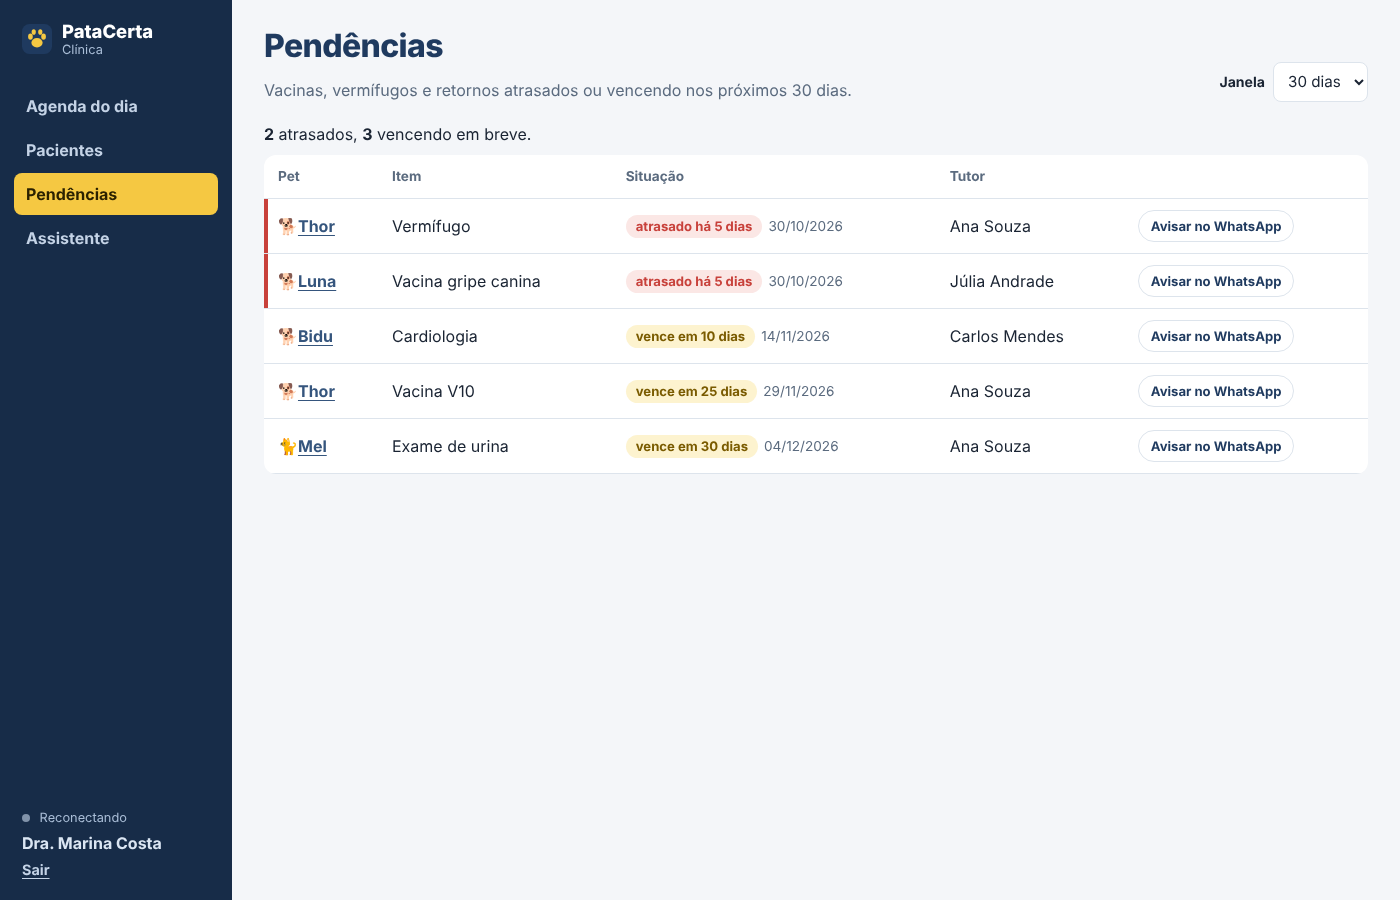
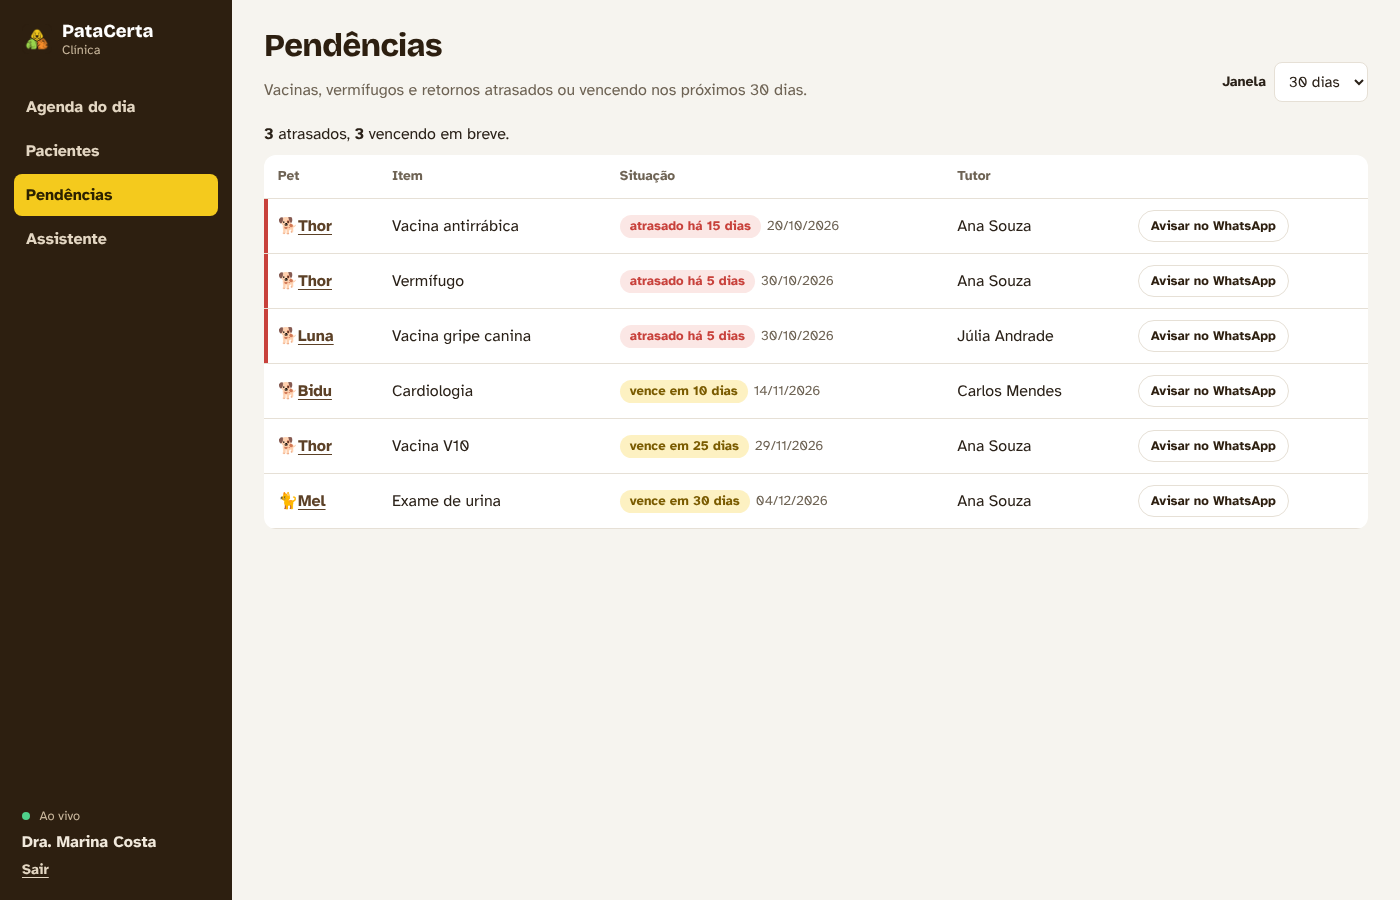
feat: nova identidade visual com a logomarca
Aplica a paleta da logo (cacau, amarelo, laranja e verde) no app do
tutor e no painel da clínica, troca o favicon pelo novo ícone e
atualiza as capturas do README.

diff --git a/apps/admin/src/styles.css b/apps/admin/src/styles.css
@@ -1,19 +1,20 @@
 :root {
-  --ink: #1f3a5f;
-  --ink-deep: #172c48;
-  --ink-soft: #35557d;
-  --paper: #f4f6f9;
+  --ink: #2d1f10;
+  --ink-deep: #2d1f10;
+  --ink-soft: #5c4127;
+  --paper: #f6f4ef;
   --surface: #ffffff;
-  --line: #dde4ec;
-  --text: #1a2433;
-  --muted: #5b6b7f;
-  --sticker: #f5c842;
-  --sticker-soft: #fdf3cf;
-  --ok: #2e7d5b;
-  --ok-soft: #e3f2ea;
+  --line: #e6e0d6;
+  --text: #2a2118;
+  --muted: #6e6354;
+  --sticker: #f4ca1d;
+  --sticker-soft: #fdf1c2;
+  --orange: #f98e2a;
+  --ok: #3d7a1c;
+  --ok-soft: #e8f5d8;
   --late: #c8413b;
   --late-soft: #fbe7e5;
-  --focus: #2f7de1;
+  --focus: #e07612;
   --font-display: 'Bricolage Grotesque', system-ui, sans-serif;
   --font-body: 'Atkinson Hyperlegible', system-ui, sans-serif;
   color-scheme: light;
@@ -21,16 +22,17 @@
 
 @media (prefers-color-scheme: dark) {
   :root:not([data-theme='light']) {
-    --ink: #9cc0ec;
-    --ink-deep: #0d1520;
-    --ink-soft: #b9d3f2;
-    --paper: #111a26;
-    --surface: #182333;
-    --line: #2a384b;
-    --text: #e6edf5;
-    --muted: #9aabbf;
-    --sticker-soft: #3a3320;
-    --ok-soft: #1c3329;
+    --ink: #f4ca1d;
+    --ink-deep: #170f06;
+    --ink-soft: #f7d75a;
+    --paper: #1f160b;
+    --surface: #2d1f10;
+    --line: #463420;
+    --text: #f3ede4;
+    --muted: #b9ab98;
+    --sticker-soft: #3e3014;
+    --ok: #98d54c;
+    --ok-soft: #26331a;
     --late: #f08a84;
     --late-soft: #3a2222;
     color-scheme: dark;
@@ -219,7 +221,7 @@ textarea:focus {
   height: 100dvh;
   padding: 20px 14px;
   background: var(--ink-deep);
-  color: #dbe6f3;
+  color: #f1e9dc;
 }
 .brand {
   display: flex;
@@ -233,7 +235,7 @@ textarea:focus {
 .brand small {
   display: block;
   font: 400 0.8rem var(--font-body);
-  color: #a9bdd6;
+  color: #c9b79c;
 }
 .sidebar nav {
   display: grid;
@@ -242,7 +244,7 @@ textarea:focus {
 .sidebar nav a {
   padding: 9px 12px;
   border-radius: 8px;
-  color: #c4d3e6;
+  color: #e3d6c2;
   font-weight: 700;
   text-decoration: none;
 }
@@ -262,11 +264,11 @@ textarea:focus {
 }
 .sidebar__foot .link-btn {
   justify-self: start;
-  color: #c4d3e6;
+  color: #e3d6c2;
 }
 .live {
   font-size: 0.8rem;
-  color: #a9bdd6;
+  color: #c9b79c;
 }
 .live::before {
   content: '';
@@ -352,11 +354,11 @@ textarea:focus {
   border-top-color: var(--sticker);
 }
 .column--in_progress {
-  border-top-color: var(--ink);
+  border-top-color: var(--orange);
   background: color-mix(in srgb, var(--ink) 8%, transparent);
 }
 .column--done {
-  border-top-color: var(--ok);
+  border-top-color: #98d54c;
 }
 .column h2 {
   display: flex;
@@ -532,7 +534,7 @@ textarea:focus {
   background: var(--surface);
 }
 .brief {
-  border: 2px solid var(--sticker);
+  border: 2px solid var(--orange);
 }
 .brief__head {
   display: flex;

diff --git a/apps/web/src/index.css b/apps/web/src/index.css
@@ -1,18 +1,19 @@
 :root {
-  --ink: #1f3a5f;
-  --ink-soft: #35557d;
-  --paper: #f7f9fb;
+  --ink: #2d1f10;
+  --ink-soft: #5c4127;
+  --paper: #f8f6f2;
   --surface: #ffffff;
-  --line: #dde4ec;
-  --text: #1a2433;
-  --muted: #5b6b7f;
-  --sticker: #f5c842;
-  --sticker-soft: #fdf3cf;
-  --ok: #2e7d5b;
-  --ok-soft: #e3f2ea;
+  --line: #e6e0d6;
+  --text: #2a2118;
+  --muted: #6e6354;
+  --sticker: #f4ca1d;
+  --sticker-soft: #fdf1c2;
+  --orange: #f98e2a;
+  --ok: #3d7a1c;
+  --ok-soft: #e8f5d8;
   --late: #c8413b;
   --late-soft: #fbe7e5;
-  --focus: #2f7de1;
+  --focus: #e07612;
 
   --font-display: 'Bricolage Grotesque', system-ui, sans-serif;
   --font-body: 'Atkinson Hyperlegible', system-ui, sans-serif;
@@ -27,17 +28,17 @@
 
 @media (prefers-color-scheme: dark) {
   :root:not([data-theme='light']) {
-    --ink: #9cc0ec;
-    --ink-soft: #b9d3f2;
-    --paper: #111a26;
-    --surface: #182333;
-    --line: #2a384b;
-    --text: #e6edf5;
-    --muted: #9aabbf;
-    --sticker: #f5c842;
-    --sticker-soft: #3a3320;
-    --ok: #6cc79e;
-    --ok-soft: #1c3329;
+    --ink: #f4ca1d;
+    --ink-soft: #f7d75a;
+    --paper: #1f160b;
+    --surface: #2d1f10;
+    --line: #463420;
+    --text: #f3ede4;
+    --muted: #b9ab98;
+    --sticker: #f4ca1d;
+    --sticker-soft: #3e3014;
+    --ok: #98d54c;
+    --ok-soft: #26331a;
     --late: #f08a84;
     --late-soft: #3a2222;
     color-scheme: dark;
@@ -390,7 +391,7 @@ textarea:focus {
 }
 .status--confirmed {
   background: var(--sticker-soft);
-  color: #7a5b00;
+  color: #6b4f00;
 }
 .status--in_progress {
   background: var(--ink);
@@ -485,7 +486,7 @@ textarea:focus {
   padding: 28px;
   border-radius: 6px 22px 22px 6px;
   background: var(--surface);
-  border-left: 14px solid var(--ink);
+  border-left: 14px solid var(--orange);
   box-shadow: 0 1px 0 var(--line);
 }
 .stamps {
@@ -698,7 +699,7 @@ textarea:focus {
   background: var(--ink);
   color: var(--paper);
   font: 800 1rem var(--font-display);
-  box-shadow: 0 8px 24px rgb(31 58 95 / 0.3);
+  box-shadow: 0 8px 24px rgb(45 31 16 / 0.35);
   cursor: pointer;
 }
 .assistant {
@@ -893,7 +894,7 @@ textarea:focus {
   color: var(--text);
 }
 .dialog::backdrop {
-  background: rgb(10 20 35 / 0.45);
+  background: rgb(30 20 10 / 0.5);
 }
 .dialog__actions {
   display: flex;

diff --git a/apps/web/src/components/Layout.tsx b/apps/web/src/components/Layout.tsx
@@ -27,7 +27,7 @@ export function Layout() {
       </a>
       <header className="topbar">
         <NavLink to="/" className="brand" aria-label="PataCerta, início">
-          <img src="/favicon.svg" alt="" width={32} height={32} />
+          <img src="/logo-icon.png" alt="" width={32} height={32} />
           <span>PataCerta</span>
         </NavLink>
         <nav className="nav" aria-label="Principal">
@@ -52,7 +52,7 @@ export function Layout() {
 
       {!assistantOpen && (
         <button className="pata-fab" onClick={() => setAssistantOpen(true)} aria-label="Pergunte à Pata">
-          <img src="/favicon.svg" alt="" width={28} height={28} />
+          <img src="/logo-icon.png" alt="" width={28} height={28} />
           <span className="pata-fab__label">Pergunte à Pata</span>
         </button>
       )}

diff --git a/apps/admin/src/index.html b/apps/admin/src/index.html
@@ -5,7 +5,8 @@
   <title>PataCerta Clínica</title>
   <base href="/">
   <meta name="viewport" content="width=device-width, initial-scale=1">
-  <link rel="icon" type="image/svg+xml" href="favicon.svg">
+  <link rel="icon" type="image/png" href="favicon.png">
+  <link rel="apple-touch-icon" href="apple-touch-icon.png">
   <link rel="preconnect" href="https://fonts.googleapis.com">
   <link rel="preconnect" href="https://fonts.gstatic.com" crossorigin>
   <link href="https://fonts.googleapis.com/css2?family=Atkinson+Hyperlegible:wght@400;700&family=Bricolage+Grotesque:opsz,wght@12..96,500;12..96,700;12..96,800&display=swap" rel="stylesheet">

diff --git a/apps/web/index.html b/apps/web/index.html
@@ -2,9 +2,10 @@
 <html lang="pt-BR">
   <head>
     <meta charset="UTF-8" />
-    <link rel="icon" type="image/svg+xml" href="/favicon.svg" />
+    <link rel="icon" type="image/png" href="/favicon.png" />
+    <link rel="apple-touch-icon" href="/apple-touch-icon.png" />
     <meta name="viewport" content="width=device-width, initial-scale=1.0" />
-    <meta name="theme-color" content="#1F3A5F" />
+    <meta name="theme-color" content="#2D1F10" />
     <title>PataCerta</title>
     <link rel="preconnect" href="https://fonts.googleapis.com" />
     <link rel="preconnect" href="https://fonts.gstatic.com" crossorigin />

diff --git a/apps/admin/src/app/pages/login.ts b/apps/admin/src/app/pages/login.ts
@@ -9,7 +9,7 @@ import { AuthService, errorMessage } from '../core/auth';
   template: `
     <div class="login">
       <form class="login__card" (ngSubmit)="submit()">
-        <img src="favicon.svg" alt="" width="48" height="48" />
+        <img src="logo-icon.png" alt="" width="48" height="48" />
         <h1>Painel da clínica</h1>
         <p class="muted">Agenda, prontuários e a assistente da equipe.</p>
         <label>

diff --git a/apps/admin/src/app/app.ts b/apps/admin/src/app/app.ts
@@ -11,7 +11,7 @@ import { RealtimeService } from './core/realtime';
       <div class="shell">
         <aside class="sidebar">
           <a routerLink="/" class="brand">
-            <img src="favicon.svg" alt="" width="30" height="30" />
+            <img src="logo-icon.png" alt="" width="30" height="30" />
             <span>PataCerta <small>Clínica</small></span>
           </a>
           <nav aria-label="Principal">

diff --git a/apps/web/src/pages/Login.tsx b/apps/web/src/pages/Login.tsx
@@ -28,7 +28,7 @@ export function Login() {
   return (
     <div className="login">
       <section className="login__intro">
-        <img src="/favicon.svg" alt="" width={56} height={56} />
+        <img src="/logo-icon.png" alt="" width={56} height={56} />
         <h1>A carteirinha do seu pet, sempre com você.</h1>
         <p>
           Vacinas, consultas e banhos num só lugar. Agende em poucos toques e acompanhe o
